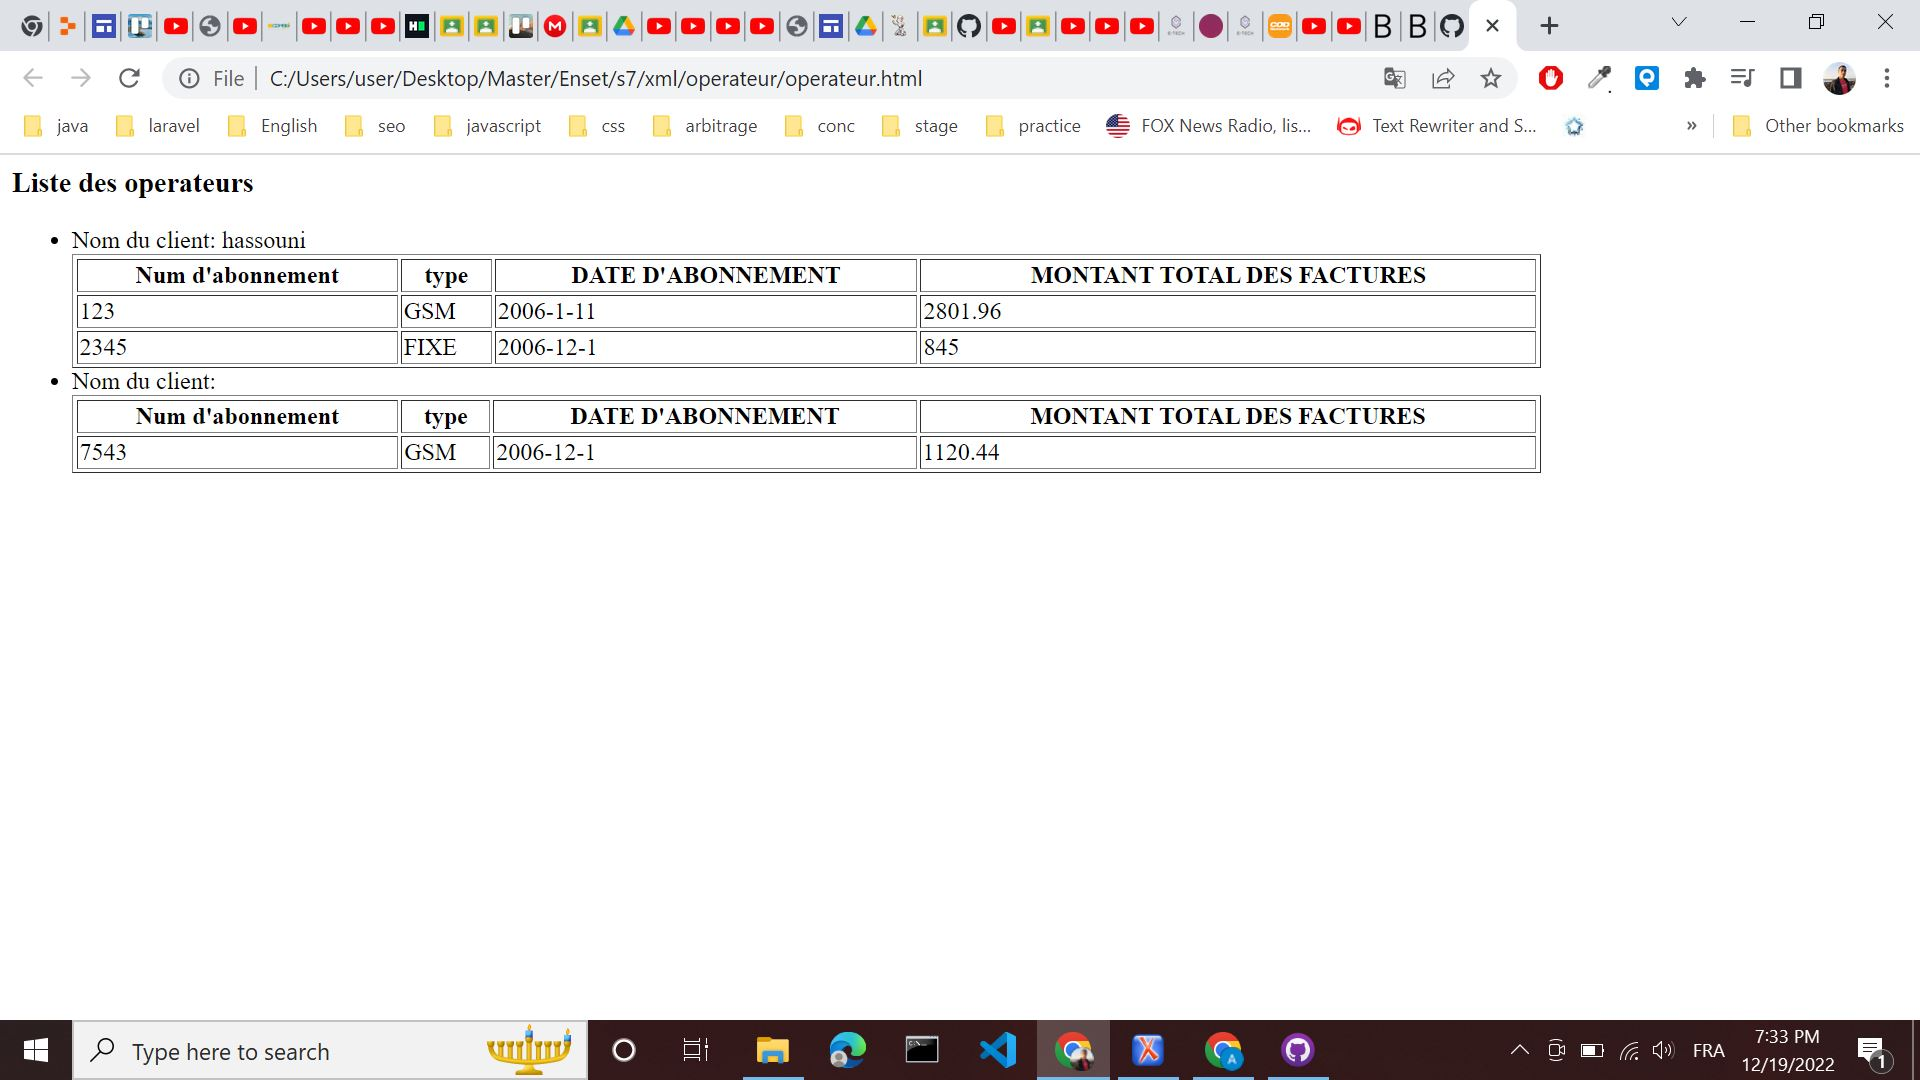
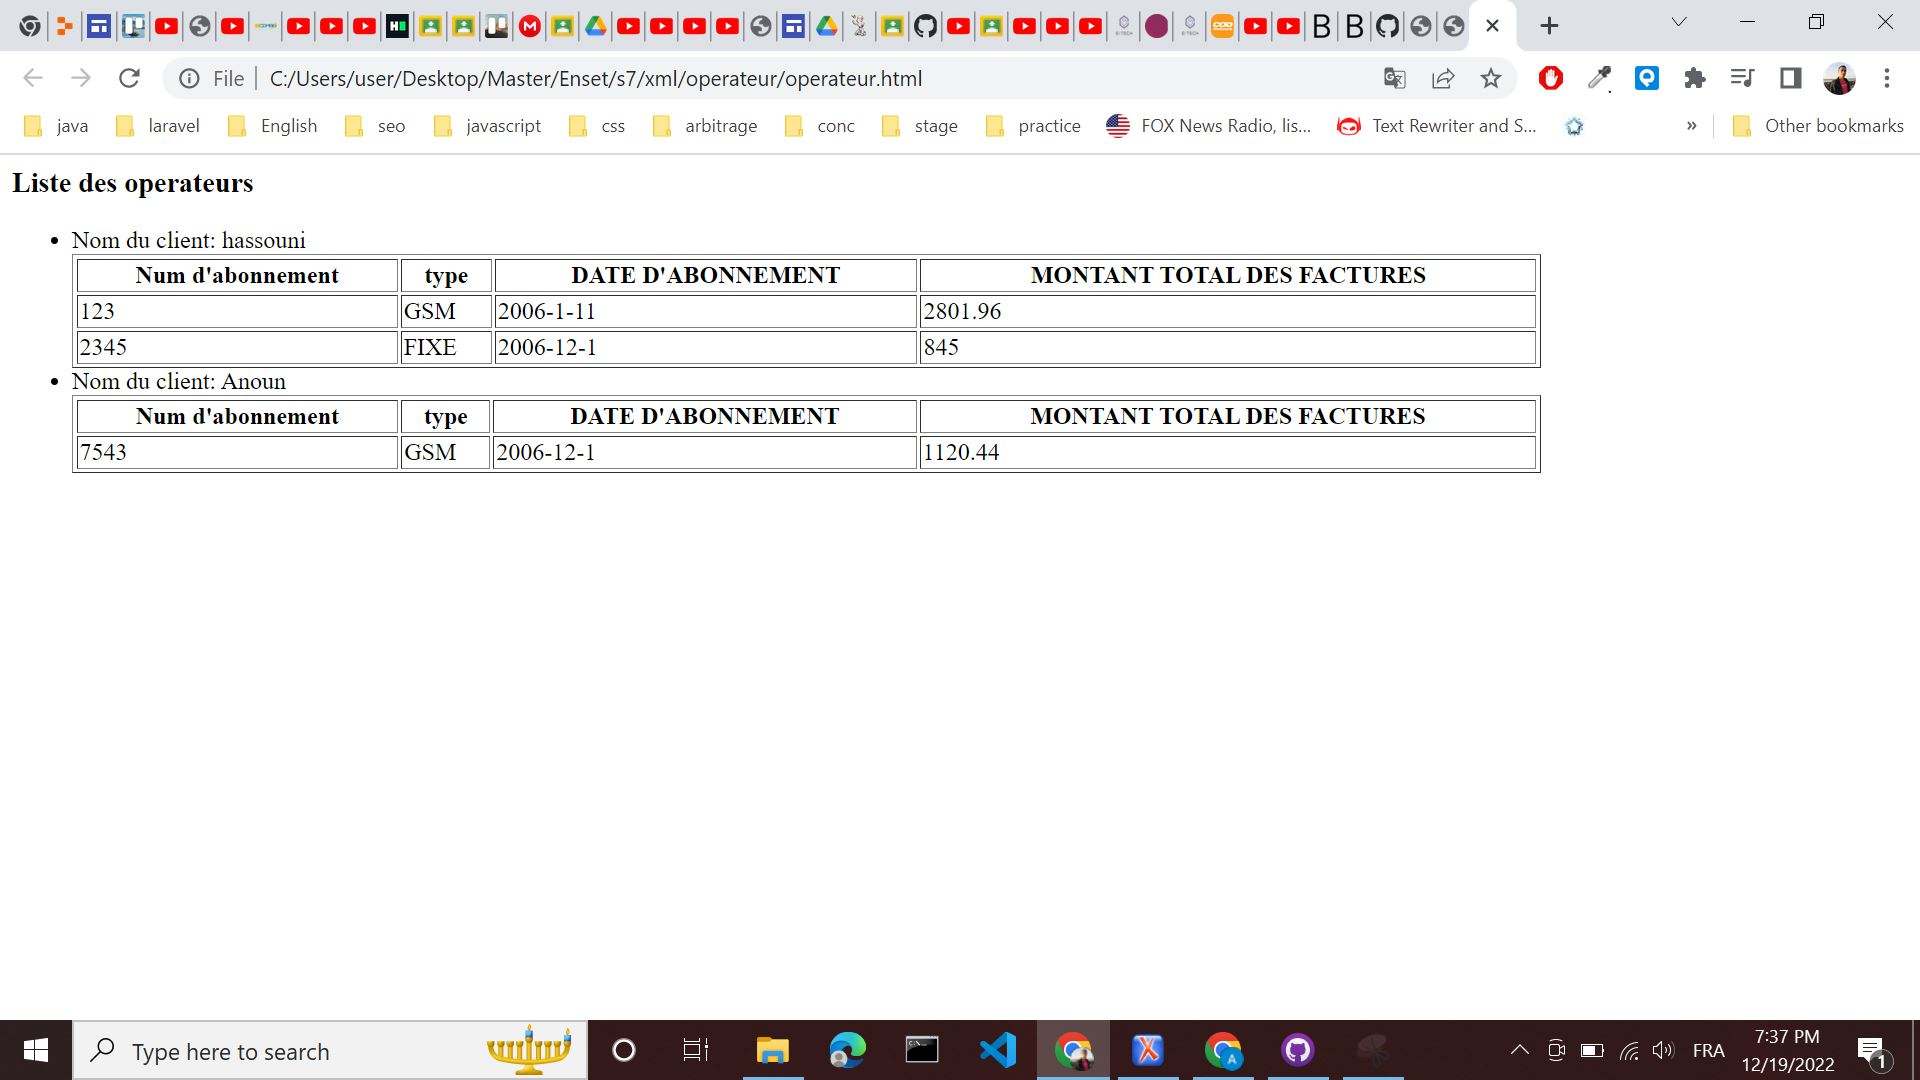
.

Changed region(s): [[0.0, 0.0, 0.7812, 0.0611], [0.6875, 0.9778, 0.7188, 1.0], [0.125, 0.3361, 0.1562, 0.3667]]

diff --git a/operateur.html b/operateur.html
@@ -26,7 +26,7 @@
             </tr>
          </table>
          <li>
-            Nom du client: 
+            Nom du client: Anoun
          </li>
          <table border="1" width="80%">
             <tr>
